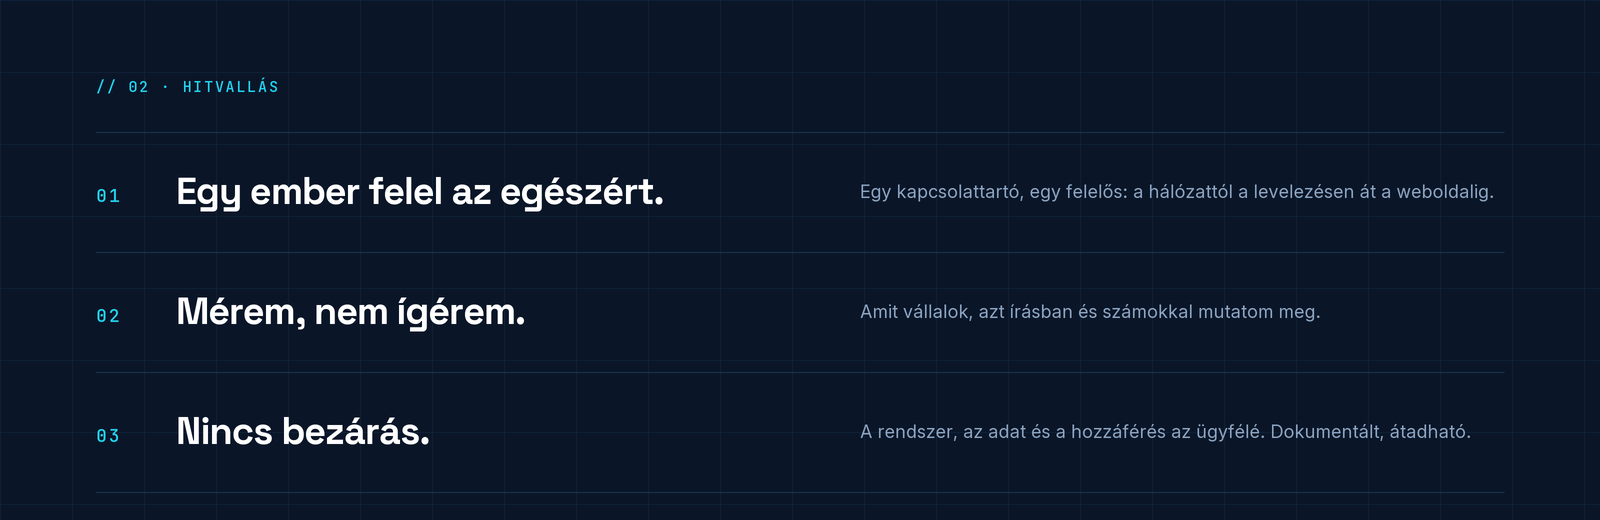
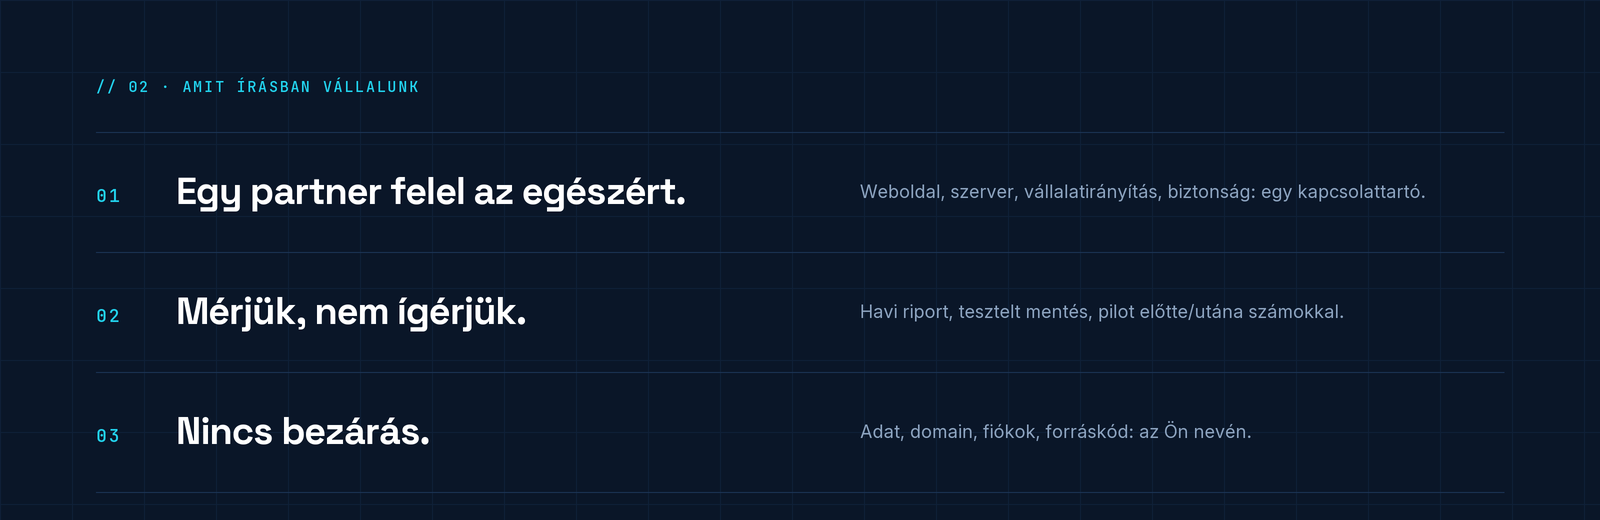
Szöveg igazítása az aktuális sys10.tech oldalhoz: csapat, egy partner
A brandbook v1.0 még „Egy ember felel az egészért” szlogent ír, az élő oldal
már csapatként, „Egy partner felel az egészért” hitvallással beszél.

diff --git a/profile/README.md b/profile/README.md
@@ -1,18 +1,18 @@
 <a href="https://sys10.tech">
   <picture>
     <source media="(prefers-color-scheme: light)" srcset="assets/hero-light.png">
-    <img src="assets/hero-dark.png" width="100%" alt="SYS10 Technologies. Egy ember felel az egészért. Helios, webfejlesztés, IT-üzemeltetés. Budapest.">
+    <img src="assets/hero-dark.png" width="100%" alt="SYS10 Technologies. Vállalati digitalizáció egy partnertől. Weboldal, szerver, vállalatirányítás, biztonság. Budapesti csapat, országosan.">
   </picture>
 </a>
 
 <picture>
   <source media="(prefers-color-scheme: light)" srcset="assets/pillars-light.png">
-  <img src="assets/pillars-dark.png" width="100%" alt="Három pillér. 01 Helios: cégre szabott webes appok egy közös alapon, az ügyfél szerverén. 02 Webfejlesztés: gyors, saját kódbázisú weboldalak és webalkalmazások. 03 IT-üzemeltetés: havidíjért, írásban vállalt reakcióidővel, negyedévente kipróbált visszaállítással.">
+  <img src="assets/pillars-dark.png" width="100%" alt="Amit átveszünk. 01 Helios: egyedi vállalatirányítási rendszer, saját szerveren vagy dedikált felhőn. 02 Webfejlesztés: saját kódbázisú weboldalak és webalkalmazások, a Helioshoz kötve. 03 Infrastruktúra és biztonság: szerver, hálózat, mentés, havidíjért.">
 </picture>
 
 <picture>
   <source media="(prefers-color-scheme: light)" srcset="assets/credo-light.png">
-  <img src="assets/credo-dark.png" width="100%" alt="Hitvallás. Egy ember felel az egészért. Mérem, nem ígérem. Nincs bezárás.">
+  <img src="assets/credo-dark.png" width="100%" alt="Amit írásban vállalunk. Egy partner felel az egészért. Mérjük, nem ígérjük. Nincs bezárás.">
 </picture>
 
 <a href="https://sys10.tech">
@@ -29,11 +29,13 @@
 
 <br>
 
-**One person is accountable for all of it.** Sys10 Technologies is based in Budapest and works in three areas:
+**Business digitalisation from one partner.** Sys10 is an IT team in Budapest, working nationwide. We take over a company's whole IT:
 
-- **Helios:** our own application platform for simple web apps shaped around how a business works, such as customers, job sheets, stock, rentals and approvals. It runs on your own server or a cloud machine assigned to you, and the data stays yours.
-- **Web development:** fast, custom-built websites, booking and quote flows, calculators and client portals.
-- **IT operations:** Microsoft 365 or Google Workspace, devices, networks, email and backups, for a monthly fee with written response times and restores tested every quarter.
+- **Helios:** our own business management system: a proven shared core with modules built for your company, such as customers, job sheets, stock, rentals and purchasing. It runs on your own server or a dedicated cloud machine, and the data stays yours.
+- **Websites and web apps:** fast, custom-built sites, booking and quote flows, calculators and client portals, connected to Helios.
+- **Infrastructure and security:** servers, dedicated cloud, office computers and network, backup and protection, for a monthly fee with written response times and restores tested every quarter.
+
+One partner is responsible for all of it.
 
 The first step is a 20-minute conversation: [info@sys10.tech](mailto:info@sys10.tech) · [sys10.tech](https://sys10.tech)
 
